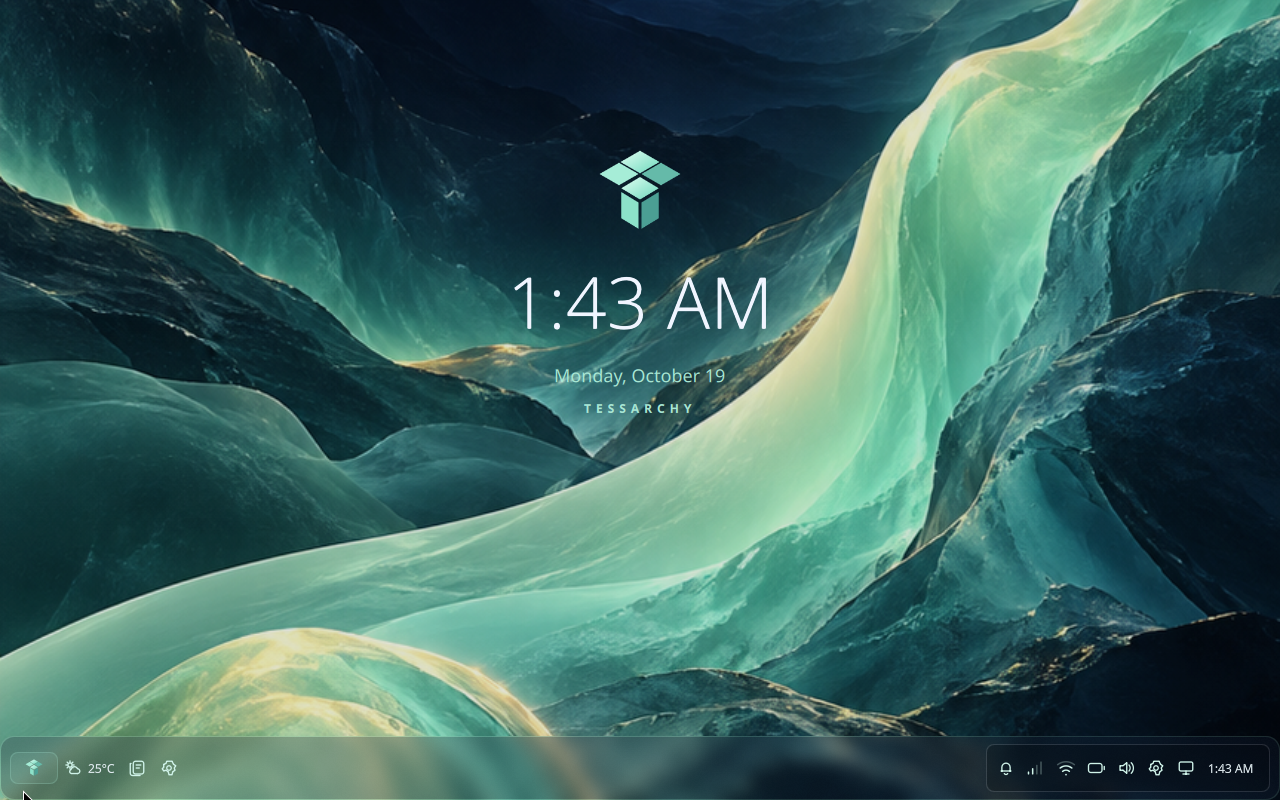
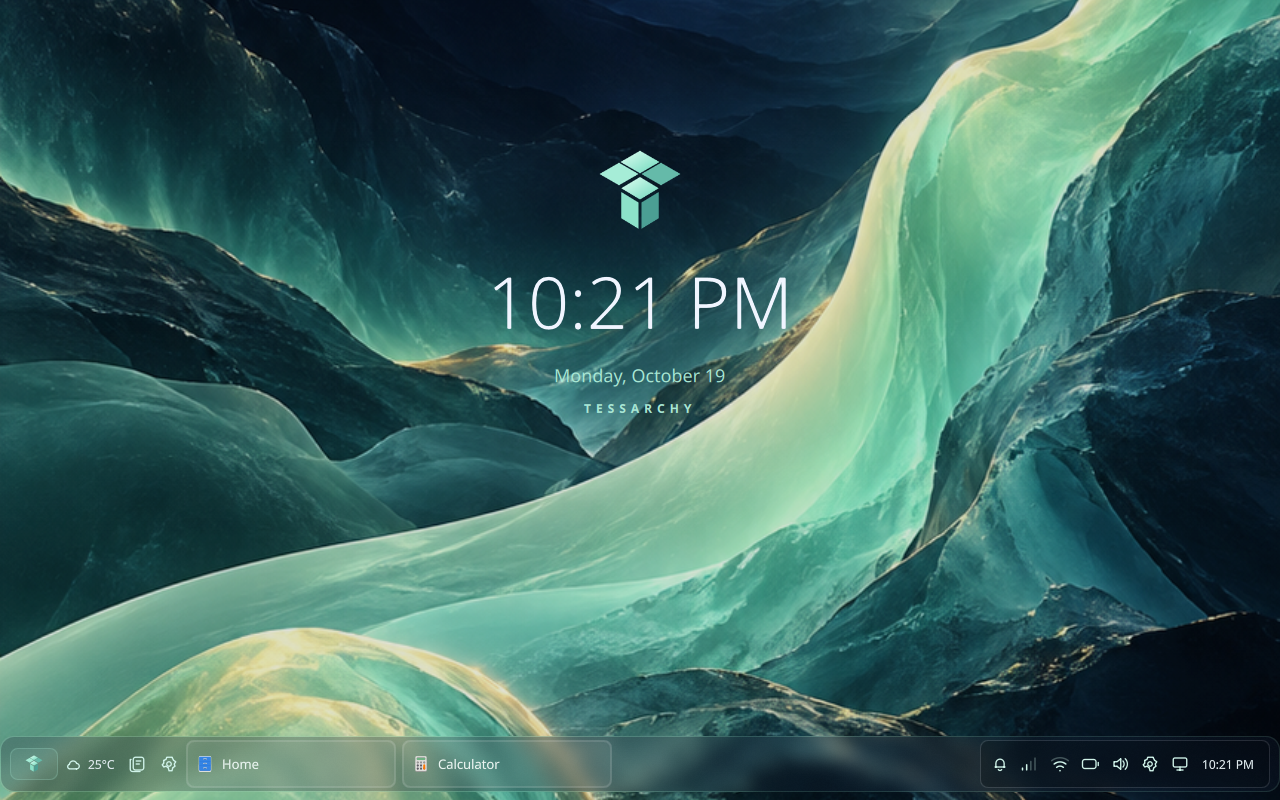
Refresh all showcase captures and publish the integrated phone experience

diff --git a/website/index.html b/website/index.html
@@ -5,9 +5,9 @@
 <meta name="theme-color" content="#09151e"><meta name="description" content="Tessarchy is an experimental touch-first Arch Linux experience. Meet Quiet Edge, the Tessera shell, and a workspace that adapts to your screen.">
 <title>Tessarchy — A quieter kind of Linux.</title>
 <link rel="canonical" href="https://thediamondsaint.github.io/tessarchy/">
-<meta property="og:type" content="website"><meta property="og:site_name" content="Tessarchy"><meta property="og:title" content="Tessarchy · From prototype to device"><meta property="og:description" content="Explore Quiet Edge: glass navigation, a mobile PIN login, real VM screenshots, a tester ISO, and the roadmap to a working handheld."><meta property="og:url" content="https://thediamondsaint.github.io/tessarchy/"><meta property="og:image" content="https://thediamondsaint.github.io/tessarchy/assets/desktop-home.png?v=20261018-tablet"><meta property="og:image:width" content="1280"><meta property="og:image:height" content="800"><meta property="og:image:alt" content="Actual Tessarchy development VM running the Quiet Edge desktop layout">
-<meta name="twitter:card" content="summary_large_image"><meta name="twitter:title" content="Tessarchy · From prototype to device"><meta name="twitter:description" content="A touch-first Arch Linux prototype. Real screenshots, a tester ISO, and a milestone roadmap to a handheld device."><meta name="twitter:image" content="https://thediamondsaint.github.io/tessarchy/assets/desktop-home.png?v=20261018-tablet">
-<link rel="icon" href="assets/tessarchy-mark.svg" type="image/svg+xml"><link rel="stylesheet" href="style.css"><script src="app.js?v=20261019-audit" defer></script>
+<meta property="og:type" content="website"><meta property="og:site_name" content="Tessarchy"><meta property="og:title" content="Tessarchy · From prototype to device"><meta property="og:description" content="Explore Quiet Edge: glass navigation, a mobile PIN login, real VM screenshots, a tester ISO, and the roadmap to a working handheld."><meta property="og:url" content="https://thediamondsaint.github.io/tessarchy/"><meta property="og:image" content="https://thediamondsaint.github.io/tessarchy/assets/desktop-home.png?v=20261019-refresh"><meta property="og:image:width" content="1280"><meta property="og:image:height" content="800"><meta property="og:image:alt" content="Actual Tessarchy development VM running the Quiet Edge desktop layout">
+<meta name="twitter:card" content="summary_large_image"><meta name="twitter:title" content="Tessarchy · From prototype to device"><meta name="twitter:description" content="A touch-first Arch Linux prototype. Real screenshots, a tester ISO, and a milestone roadmap to a handheld device."><meta name="twitter:image" content="https://thediamondsaint.github.io/tessarchy/assets/desktop-home.png?v=20261019-refresh">
+<link rel="icon" href="assets/tessarchy-mark.svg" type="image/svg+xml"><link rel="stylesheet" href="style.css"><script src="app.js?v=20261019-refresh" defer></script>
 </head>
 <body>
 <a class="skip" href="#main">Skip to content</a>
@@ -15,29 +15,29 @@
 <main id="main">
 <section class="hero">
 <div class="hero-copy"><p class="eyebrow"><span class="pulse"></span> INDEPENDENT. OPEN SOURCE. TAKING SHAPE.</p><h1>A quieter<br>kind of <em>Linux.</em></h1><p class="lead">Your space, from pocket to desktop.<br>A touch-first Arch experience, shaped around you.</p><div class="actions"><a class="button primary" href="#experience">Meet Quiet Edge <span>↓</span></a><a class="text-link" href="#download">Get the tester ISO ↗</a></div><p class="hero-note">Arch Linux <span> / </span> Hyprland <span> / </span> Tessera</p></div>
-<div class="hero-art"><div class="orbit orbit-one"></div><div class="orbit orbit-two"></div><div class="phone"><img src="assets/phone-home.png?v=20261018-tablet" alt="Real Tessarchy VM screenshot showing the Quiet Edge home screen" width="400" height="800" fetchpriority="high"></div><div class="glass-tag"><img src="assets/tessarchy-mark.svg" alt="" width="28" height="28"><div>Quiet Edge<span>A little less noise. A lot more space.</span></div></div><span class="art-caption">ACTUAL DEVELOPMENT VM · PHONE LAYOUT</span></div>
+<div class="hero-art"><div class="orbit orbit-one"></div><div class="orbit orbit-two"></div><div class="phone"><img src="assets/phone-home.png?v=20261019-refresh" alt="Real Tessarchy VM screenshot showing the Quiet Edge home screen" width="390" height="844" fetchpriority="high"></div><div class="glass-tag"><img src="assets/tessarchy-mark.svg" alt="" width="28" height="28"><div>Quiet Edge<span>A little less noise. A lot more space.</span></div></div><span class="art-caption">ACTUAL DEVELOPMENT VM · PHONE LAYOUT</span></div>
 </section>
 <div class="section-rule"><span>01 / THE EXPERIENCE</span><span>DESIGNED TO GET OUT OF YOUR WAY</span></div>
 <section id="experience" class="experience">
 <div class="section-intro"><h2>Room to breathe.<br><em>Space to move.</em></h2><p>Shallow glass. Precise icons. A floating dock that keeps navigation close. Quiet Edge brings a consistent, considered shape to the Tessera shell.</p></div>
-<div class="feature-grid"><article class="switcher-feature"><div class="feature-copy"><p class="eyebrow">IN THE DEVELOPMENT BUILD</p><h3>Find your flow.</h3><p>Swipe through app cards with real window previews. Tap to return. Alt+Tab opens a compact row of app icons for keyboard switching.</p><div class="key-row"><kbd>Alt</kbd><span>+</span><kbd>Tab</kbd><span>Quick keyboard switching.</span></div></div><button class="shot-button switcher-shot" data-image="assets/phone-switcher.png?v=20261018-tablet" aria-label="Enlarge app switcher screenshot"><img src="assets/phone-switcher.png?v=20261018-tablet" alt="Tessera glass card app switcher in the development VM" width="400" height="800" loading="lazy"></button></article><article class="settings-feature"><p class="eyebrow">MAKE IT YOURS</p><h3>Small details.<br>Your decisions.</h3><p>Choose a layout, adjust the glass, change your accent, or reduce motion. Settings stay with your session.</p><button class="shot-button settings-shot" data-image="assets/phone-settings.png?v=20261018-tablet" aria-label="Enlarge settings screenshot"><img src="assets/phone-settings.png?v=20261018-tablet" alt="Tessarchy settings with automatic, phone, tablet and desktop layouts" width="400" height="800" loading="lazy"></button></article><article class="controls-feature"><div class="feature-copy"><p class="eyebrow">PULL DOWN. TUNE IN.</p><h3>A few essentials.<br>Always within reach.</h3><p>Pull down the central status-bar handle for glass radio switches, volume, and layout controls. The close handle stays within reach while you scroll. Choose Auto, Phone, Tablet, or Desktop without leaving the panel. Airplane mode controls detected radios together; Wi-Fi, Bluetooth and cellular have their own switches.</p><p>Unavailable hardware and permission limits stay visible. Development source now includes Bluetooth adapter discovery and connections to already-paired devices. Wi-Fi network selection remains planned; physical radio acceptance is still pending.</p></div><button class="shot-button controls-shot" data-image="assets/phone-controls.png?v=20261018-tablet" aria-label="Enlarge quick controls screenshot"><img src="assets/phone-controls.png?v=20261018-tablet" alt="Actual VM pull-down quick controls with layout selection and unavailable radio hardware" width="400" height="800" loading="lazy"></button></article></div>
+<div class="feature-grid"><article class="switcher-feature"><div class="feature-copy"><p class="eyebrow">IN THE DEVELOPMENT BUILD</p><h3>Find your flow.</h3><p>Swipe through overlapping app cards with real window previews, app icons and names. Tap to return; swipe up or double-click with a mouse to close immediately. Alt+Tab opens a compact row of app icons for keyboard switching.</p><div class="key-row"><kbd>Alt</kbd><span>+</span><kbd>Tab</kbd><span>Quick keyboard switching.</span></div></div><button class="shot-button switcher-shot" data-image="assets/phone-switcher.png?v=20261019-refresh" aria-label="Enlarge app switcher screenshot"><img src="assets/phone-switcher.png?v=20261019-refresh" alt="Tessera glass card app switcher in the development VM" width="390" height="844" loading="lazy"></button></article><article class="settings-feature"><p class="eyebrow">MAKE IT YOURS</p><h3>Small details.<br>Your decisions.</h3><p>Choose a layout, adjust the glass, change your accent, or reduce motion. Settings stay with your session.</p><button class="shot-button settings-shot" data-image="assets/phone-settings.png?v=20261019-refresh" aria-label="Enlarge settings screenshot"><img src="assets/phone-settings.png?v=20261019-refresh" alt="Tessarchy settings with automatic, phone, tablet and desktop layouts" width="390" height="844" loading="lazy"></button></article><article class="controls-feature"><div class="feature-copy"><p class="eyebrow">PULL DOWN. TUNE IN.</p><h3>A few essentials.<br>Always within reach.</h3><p>Pull down the central status-bar handle for glass radio switches, volume, and layout controls. The close handle stays within reach while you scroll. Choose Auto, Phone, Tablet, or Desktop without leaving the panel. Airplane mode controls detected radios together; Wi-Fi, Bluetooth and cellular have their own switches.</p><p>Unavailable hardware and permission limits stay visible. Development source now includes Bluetooth adapter discovery and connections to already-paired devices. Wi-Fi network selection remains planned; physical radio acceptance is still pending.</p></div><button class="shot-button controls-shot" data-image="assets/phone-controls.png?v=20261019-refresh" aria-label="Enlarge quick controls screenshot"><img src="assets/phone-controls.png?v=20261019-refresh" alt="Actual VM pull-down quick controls with layout selection and unavailable radio hardware" width="390" height="844" loading="lazy"></button></article></div>
 </section>
-<section class="adaptive"><div class="section-intro"><div><p class="eyebrow">ONE SHELL. EVERY SCREEN.</p><h2>Grows with<br><em>your workspace.</em></h2></div><p>Tessera detects the logical display size and chooses a phone, tablet, or desktop layout. Keep it automatic, or choose your own mode.</p></div><div class="mode-tabs" role="tablist" aria-label="Display layouts"><button role="tab" aria-selected="true" aria-controls="layout-preview" id="tab-phone" data-mode="phone" tabindex="0">Phone</button><button role="tab" aria-selected="false" aria-controls="layout-preview" id="tab-tablet" data-mode="tablet" tabindex="-1">Tablet</button><button role="tab" aria-selected="false" aria-controls="layout-preview" id="tab-desktop" data-mode="desktop" tabindex="-1">Desktop</button></div><div id="layout-preview" role="tabpanel" aria-labelledby="tab-phone" class="layout-preview phone-mode"><button class="shot-button" data-image="assets/phone-home.png?v=20261018-tablet" aria-label="Enlarge layout screenshot"><img id="layout-image" src="assets/phone-home.png?v=20261018-tablet" alt="Phone layout in the Tessarchy development VM" width="400" height="800" loading="lazy"></button><div class="layout-caption"><span id="layout-label">PHONE / 400 × 800</span><span>REAL VM CAPTURE · DEVELOPMENT BUILD</span></div><button id="layout-controls-shot" class="button" data-image="assets/phone-controls.png?v=20261018-tablet" data-alt="Phone pull-down controls in the development VM">View quick controls ↗</button></div></section>
+<section class="adaptive"><div class="section-intro"><div><p class="eyebrow">ONE SHELL. EVERY SCREEN.</p><h2>Grows with<br><em>your workspace.</em></h2></div><p>Tessera detects the logical display size and chooses a phone, tablet, or desktop layout. Keep it automatic, or choose your own mode.</p></div><div class="mode-tabs" role="tablist" aria-label="Display layouts"><button role="tab" aria-selected="true" aria-controls="layout-preview" id="tab-phone" data-mode="phone" tabindex="0">Phone</button><button role="tab" aria-selected="false" aria-controls="layout-preview" id="tab-tablet" data-mode="tablet" tabindex="-1">Tablet</button><button role="tab" aria-selected="false" aria-controls="layout-preview" id="tab-desktop" data-mode="desktop" tabindex="-1">Desktop</button></div><div id="layout-preview" role="tabpanel" aria-labelledby="tab-phone" class="layout-preview phone-mode"><button class="shot-button" data-image="assets/phone-home.png?v=20261019-refresh" aria-label="Enlarge layout screenshot"><img id="layout-image" src="assets/phone-home.png?v=20261019-refresh" alt="Phone layout in the Tessarchy development VM" width="390" height="844" loading="lazy"></button><div class="layout-caption"><span id="layout-label">PHONE / 390 × 844</span><span>REAL VM CAPTURE · DEVELOPMENT BUILD</span></div><button id="layout-controls-shot" class="button" data-image="assets/phone-controls.png?v=20261019-refresh" data-alt="Phone pull-down controls in the development VM">View quick controls ↗</button></div></section>
 <div class="section-rule"><span>02 / OUT IN THE OPEN</span><span>PROGRESS, WITHOUT THE GUESSWORK</span></div>
-<section id="development" class="development"><div class="section-intro"><h2>Built in public.<br><em>Still becoming.</em></h2><p>Tessarchy is an early prototype. Here is what exists today, what you can test, and where we are headed.</p></div><div class="status-columns"><article><span class="status-label available">DEVELOPMENT BUILD</span><h3>The foundation is here.</h3><ul><li>Quiet Edge glass bars and floating navigation</li><li>Pull-down radio switches and airplane mode</li><li>Touch Recents cards and an icon-only Alt+Tab switcher</li><li>Automatic layouts and saved preferences</li><li>Animated cube branding and reduced motion</li><li>Confirmed window close and session exit</li><li>Phone PIN login verified through greetd/PAM in the VM</li><li>Phone, contacts/photos and SMS dock apps</li><li>VoidRing sound selection and SIM/eSIM options</li><li>Bluetooth discovery and already-paired device actions</li><li>Guarded media, audio-device and screenshot controls</li><li>VM-tested touchscreen gestures and audio output switching</li><li>Battery and supported power-profile controls</li></ul></article><article><span class="status-label testing">TESTER RELEASE</span><h3>A place to start.</h3><p>Alpha 4 keeps the Alpha 3 curated app picker, everyday apps, tablet firmware, audio, wireless tools and startup animation, and adds the desktop tray fix, on-screen keys at a 48px height, idle blanking, a notification center and display rotation. It has been observed booting into Tessera in BIOS and non-Secure-Boot UEFI QEMU/KVM.</p><p>A live x86_64 environment, with no disk installer or persistent storage. An on-screen keyboard is included; keep a physical keyboard for recovery.</p></article><article><span class="status-label planned">ON THE HORIZON</span><h3>The next edges.</h3><ul><li>Customizable navigation gestures</li><li>Further on-screen keyboard and application integration</li><li>Touch-friendly default applications</li><li>Reference hardware selection and architecture bring-up</li><li>Calling, messaging and modem research</li></ul><p class="muted">Phone hardware, cellular service and WebUSB flashing are investigation work.</p></article></div><div class="project-links"><a href="https://github.com/thediamondsaint/tessarchy/blob/main/AGENT-README.md">Agent task board ↗</a><a href="https://github.com/thediamondsaint/tessarchy/blob/main/docs/testing.md">Read the validation record ↗</a><a href="https://github.com/thediamondsaint/tessarchy/blob/main/Operation-TESSARCHY.md">Explore Operation Tessarchy ↗</a><a href="https://github.com/thediamondsaint/tessarchy/issues">Report a finding ↗</a></div><div class="update-row"><span><i class="pulse"></i> REPOSITORY UPDATE</span><a id="commit-link" href="https://github.com/thediamondsaint/tessarchy/commits/main"><span id="commit-message">See the latest development activity</span> ↗</a></div></section>
+<section id="development" class="development"><div class="section-intro"><h2>Built in public.<br><em>Still becoming.</em></h2><p>Tessarchy is an early prototype. Here is what exists today, what you can test, and where we are headed.</p></div><div class="status-columns"><article><span class="status-label available">DEVELOPMENT BUILD</span><h3>The foundation is here.</h3><ul><li>Quiet Edge glass bars and floating navigation</li><li>Pull-down radio switches and airplane mode</li><li>Stacked phone Recents and an icon-only Alt+Tab switcher</li><li>Automatic layouts and saved preferences</li><li>Animated cube branding and reduced motion</li><li>Immediate Recents dismissal; confirmed session exit</li><li>Phone PIN login verified through greetd/PAM in the VM</li><li>Phone, contacts/photos and SMS dock apps</li><li>VoidRing sound selection and SIM/eSIM options</li><li>Bluetooth discovery and already-paired device actions</li><li>Guarded media, audio-device and screenshot controls</li><li>VM-tested touchscreen gestures and audio output switching</li><li>Development installer and in-place update tooling; installed-disk acceptance pending</li><li>Battery and supported power-profile controls</li></ul></article><article><span class="status-label testing">TESTER RELEASE</span><h3>A place to start.</h3><p>Alpha 4 keeps the Alpha 3 curated app picker, everyday apps, tablet firmware, audio, wireless tools and startup animation, and adds the desktop tray fix, on-screen keys at a 48px height, idle blanking, a notification center and display rotation. It has been observed booting into Tessera in BIOS and non-Secure-Boot UEFI QEMU/KVM.</p><p>A live x86_64 environment, with no disk installer or persistent storage. An on-screen keyboard is included; keep a physical keyboard for recovery.</p></article><article><span class="status-label planned">ON THE HORIZON</span><h3>The next edges.</h3><ul><li>Customizable navigation gestures</li><li>Further on-screen keyboard and application integration</li><li>Touch-friendly default applications</li><li>Reference hardware selection and architecture bring-up</li><li>Calling, messaging and modem research</li></ul><p class="muted">Phone hardware, cellular service and WebUSB flashing are investigation work.</p></article></div><div class="project-links"><a href="https://github.com/thediamondsaint/tessarchy/blob/main/AGENT-README.md">Agent task board ↗</a><a href="https://github.com/thediamondsaint/tessarchy/blob/main/docs/testing.md">Read the validation record ↗</a><a href="https://github.com/thediamondsaint/tessarchy/blob/main/Operation-TESSARCHY.md">Explore Operation Tessarchy ↗</a><a href="https://github.com/thediamondsaint/tessarchy/issues">Report a finding ↗</a></div><div class="update-row"><span><i class="pulse"></i> REPOSITORY UPDATE</span><a id="commit-link" href="https://github.com/thediamondsaint/tessarchy/commits/main"><span id="commit-message">See the latest development activity</span> ↗</a></div></section>
 <section id="latest" class="latest">
-<div class="section-intro"><div><p class="eyebrow">LATEST DEVELOPMENT · OCTOBER 2026</p><h2>More than<br><em>a new look.</em></h2></div><p>Refined touch controls, working VM audio, a real phone-style sign-in, and a clearer path to hardware. Alpha 4 brings the tablet profile, supplied startup animation and the latest shell fixes to the live image, with a separate package bundle for existing Arch tablets.</p></div>
+<div class="section-intro"><div><p class="eyebrow">LATEST DEVELOPMENT · OCTOBER 2026</p><h2>More than<br><em>a new look.</em></h2></div><p>Fresh screenshots across phone, tablet and desktop, stacked phone Recents with immediate dismissal, tested VM audio, and a real phone-style sign-in. Alpha 4 brings the tablet profile, supplied startup animation and the latest shell fixes to the live image, with a separate package bundle for existing Arch tablets.</p></div>
 <div class="evidence-grid">
-<article><button class="shot-button" data-image="assets/phone-contacts.png?v=20261018-tablet" aria-label="Enlarge the Phone contacts app"><img src="assets/phone-contacts.png?v=20261018-tablet" alt="Actual Phone contacts page with a synthetic demo contact and imported Tessarchy-logo photo" width="400" height="800" loading="lazy"></button><h3>Your people, close.</h3><p>Phone and Messages join the glass dock. A native keypad, call controls, searchable contacts and private photos share the Quiet Edge theme.</p><a class="text-link" href="assets/phone-dialer.png?v=20261018-tablet">View the dialer ↗</a></article>
-<article><button class="shot-button" data-image="assets/desktop-messages.png?v=20261018-tablet" aria-label="Enlarge desktop Messages"><img src="assets/desktop-messages.png?v=20261018-tablet" alt="Actual desktop Messages layout with two columns and an empty composer; cellular service is unavailable in this VM" width="1280" height="800" loading="lazy"></button><h3>A little more connected.</h3><p>SMS conversations adapt from one column on phones to two on desktop. ModemManager supplies the cellular backend, SIM detection and supported device controls. Hardware acceptance is the next step.</p><a class="text-link" href="assets/phone-messages.png?v=20261018-tablet">View phone Messages ↗</a></article>
-<article><button class="shot-button" data-image="assets/phone-sounds.png?v=20261018-tablet" aria-label="Enlarge ringtone settings"><img src="assets/phone-sounds.png?v=20261018-tablet" alt="Actual glass sound settings with the supplied VoidRing tones, preview controls and MP3 import" width="400" height="800" loading="lazy"></button><h3>Make it sound like you.</h3><p>Five VoidRing tracks, saved ringtone and alert choices, previews and a glass file browser. SIM and eSIM settings sit beside the connection controls.</p><a class="text-link" href="assets/phone-cellular.png?v=20261018-tablet">View SIM &amp; eSIM options ↗</a></article>
+<article><button class="shot-button" data-image="assets/phone-contacts.png?v=20261019-refresh" aria-label="Enlarge the Phone contacts app"><img src="assets/phone-contacts.png?v=20261019-refresh" alt="Actual Phone contacts page with a synthetic demo contact and imported Tessarchy-logo photo" width="390" height="844" loading="lazy"></button><h3>Your people, close.</h3><p>Phone and Messages join the glass dock. A native keypad, call controls, searchable contacts and private photos share the Quiet Edge theme.</p><a class="text-link" href="assets/phone-dialer.png?v=20261019-refresh">View the dialer ↗</a></article>
+<article><button class="shot-button" data-image="assets/desktop-messages.png?v=20261019-refresh" aria-label="Enlarge desktop Messages"><img src="assets/desktop-messages.png?v=20261019-refresh" alt="Actual desktop Messages layout with two columns and an empty composer; cellular service is unavailable in this VM" width="1280" height="800" loading="lazy"></button><h3>A little more connected.</h3><p>SMS conversations adapt from one column on phones to two on desktop. ModemManager supplies the cellular backend, SIM detection and supported device controls. Hardware acceptance is the next step.</p><a class="text-link" href="assets/phone-messages.png?v=20261019-refresh">View phone Messages ↗</a></article>
+<article><button class="shot-button" data-image="assets/phone-sounds.png?v=20261019-refresh" aria-label="Enlarge ringtone settings"><img src="assets/phone-sounds.png?v=20261019-refresh" alt="Actual glass sound settings with the supplied VoidRing tones, preview controls and MP3 import" width="390" height="844" loading="lazy"></button><h3>Make it sound like you.</h3><p>Five VoidRing tracks, saved ringtone and alert choices, previews and a glass file browser. SIM and eSIM settings sit beside the connection controls.</p><a class="text-link" href="assets/phone-cellular.png?v=20261019-refresh">View SIM &amp; eSIM options ↗</a></article>
 
-<article><button class="shot-button" data-image="assets/live-launcher.png?v=20261018-tablet" aria-label="Enlarge the live tablet-pilot app picker"><img src="assets/live-launcher.png?v=20261018-tablet" alt="Actual Alpha 4 UEFI live boot showing the curated main-app picker" width="1280" height="800" loading="lazy"></button><span class="status-label testing">INTEL / AMD TABLET PILOT</span><h3>Beyond the VM.</h3><p>A new tablet package profile adds firmware, Wi-Fi and Bluetooth tools, audio, the on-screen keyboard, Files, Text Editor, document and image viewers, media playback and Calculator.</p><p>The app picker now keeps one primary app per role and leaves background helpers out. Install onto an existing Arch system using the tablet guide; storage setup and physical-device acceptance stay explicit.</p><a class="text-link" href="https://github.com/thediamondsaint/tessarchy/blob/main/docs/tablet-install.md">Tablet install and acceptance guide ↗</a></article>
-<article><button class="shot-button" data-image="assets/desktop-audio.png?v=20261018-tablet" aria-label="Enlarge tested VM audio controls"><img src="assets/desktop-audio.png?v=20261018-tablet" alt="Actual software-display VM with two detected audio outputs and the fixed quick-controls close handle" width="1280" height="800" loading="lazy"></button><h3>Touch. Tune. Test.</h3><p>A dedicated pull-down handle, grouped dock shortcuts and a close handle that stays visible. Real virtual-touch gestures exercise scrolling, audio output selection, mute and volume.</p><p>The accepted VM profile keeps software display rendering and KVM CPU acceleration, with sound and multitouch enabled. Less idle polling reduces background work when hardware is absent.</p><a class="text-link" href="https://github.com/thediamondsaint/tessarchy/blob/main/docs/vm.md">Set up the development VM ↗</a></article>
+<article><button class="shot-button" data-image="assets/live-launcher.png?v=20261019-refresh" aria-label="Enlarge the live tablet-pilot app picker"><img src="assets/live-launcher.png?v=20261019-refresh" alt="Fresh UEFI boot of the Alpha 15 mirror development ISO showing the curated main-app picker" width="1280" height="800" loading="lazy"></button><span class="status-label testing">INTEL / AMD TABLET PILOT</span><h3>Beyond the VM.</h3><p>This capture shows an Alpha 15 mirror development ISO, separate from the published Alpha 4 download. The tablet package profile adds firmware, Wi-Fi and Bluetooth tools, audio, the on-screen keyboard, Files, Text Editor, document and image viewers, media playback and Calculator.</p><p>The app picker now keeps one primary app per role and leaves background helpers out. Install onto an existing Arch system using the tablet guide; storage setup and physical-device acceptance stay explicit.</p><a class="text-link" href="https://github.com/thediamondsaint/tessarchy/blob/main/docs/tablet-install.md">Tablet install and acceptance guide ↗</a></article>
+<article><button class="shot-button" data-image="assets/desktop-audio.png?v=20261019-refresh" aria-label="Enlarge tested VM audio controls"><img src="assets/desktop-audio.png?v=20261019-refresh" alt="Actual software-display VM with two detected audio outputs and the fixed quick-controls close handle" width="1280" height="800" loading="lazy"></button><h3>Touch. Tune. Test.</h3><p>A dedicated pull-down handle, grouped dock shortcuts and a close handle that stays visible. Real virtual-touch gestures exercise scrolling, audio output selection, mute and volume.</p><p>The accepted VM profile keeps software display rendering and KVM CPU acceleration, with sound and multitouch enabled. Less idle polling reduces background work when hardware is absent.</p><a class="text-link" href="https://github.com/thediamondsaint/tessarchy/blob/main/docs/vm.md">Set up the development VM ↗</a></article>
 <article><video controls muted playsinline preload="metadata" poster="assets/power-on-poster.png" width="480" height="480" aria-label="Supplied eight-second Tessarchy power-on animation"><source src="assets/power-on.mp4" type="video/mp4"></video><h3>A new power-on sequence.</h3><p>The supplied eight-second animation now drives the Plymouth theme. The package plays it once, keeps its square composition on phone and tablet displays, then holds the final frame until startup finishes.</p><p>The video was observed in diskless BIOS and UEFI live boots. Physical-tablet acceptance is recorded separately.</p><a class="text-link" href="assets/power-on.mp4" download>Download the animation MP4 ↓</a><br><a class="text-link" href="assets/tablet-startup.png">View the actual UEFI startup frame ↗</a></article>
-<article><button class="shot-button" data-image="assets/phone-login.png" aria-label="Enlarge real phone login screenshot"><img src="assets/phone-login.png" alt="Actual greetd phone login in the VM, with a glass numeric keypad and four empty PIN dots" width="400" height="800" loading="lazy"></button><h3>A familiar way in.</h3><p>Four-digit account-password sign-in through greetd and PAM. Wrong-PIN rejection, successful sign-in, and return to the greeter were tested in the development VM. The greeter authenticates a new session.</p><a class="text-link" href="https://github.com/thediamondsaint/tessarchy/blob/main/docs/phone-login.md">Read the login validation ↗</a></article>
-<article><button class="shot-button" data-image="assets/phone-bluetooth.png?v=20261018-tablet" aria-label="Enlarge Bluetooth controls screenshot"><img src="assets/phone-bluetooth.png?v=20261018-tablet" alt="Actual development VM Bluetooth panel reporting that no adapter is available" width="400" height="800" loading="lazy"></button><h3>Connected, with care.</h3><p>Bluetooth controls handle missing adapters. The VM now has two audio outputs, with real signal capture, touch output selection, mute and volume checks completed. Media playback and private screenshots remain separate acceptance work.</p><a class="text-link" href="https://github.com/thediamondsaint/tessarchy/blob/main/docs/pr-triage.md">See the contributor integration record ↗</a></article>
-<article><button class="shot-button" data-image="assets/phone-login-home.png" aria-label="Enlarge authenticated home screenshot"><img src="assets/phone-login-home.png" alt="Tessera home after a successful real PAM login in the development VM" width="400" height="800" loading="lazy"></button><h3>Back to your space.</h3><p>The greeter and desktop now start through the supported Hyprland launcher. The tested user session reports no configuration errors or launcher warnings. Physical device support remains a separate milestone.</p><a class="text-link" href="https://github.com/thediamondsaint/tessarchy/pull/25">View the merged login work ↗</a></article>
+<article><button class="shot-button" data-image="assets/phone-login.png?v=20261019-refresh" aria-label="Enlarge real phone login screenshot"><img src="assets/phone-login.png?v=20261019-refresh" alt="Actual greetd phone login in the VM, with a glass numeric keypad and four empty PIN dots" width="390" height="844" loading="lazy"></button><h3>A familiar way in.</h3><p>Four-digit account-password sign-in through greetd and PAM. Wrong-PIN rejection, successful sign-in, and return to the greeter were tested in the development VM. The greeter authenticates a new session.</p><a class="text-link" href="https://github.com/thediamondsaint/tessarchy/blob/main/docs/phone-login.md">Read the login validation ↗</a></article>
+<article><button class="shot-button" data-image="assets/phone-bluetooth.png?v=20261019-refresh" aria-label="Enlarge Bluetooth controls screenshot"><img src="assets/phone-bluetooth.png?v=20261019-refresh" alt="Actual development VM Bluetooth panel reporting that no adapter is available" width="390" height="844" loading="lazy"></button><h3>Connected, with care.</h3><p>Bluetooth controls handle missing adapters. The VM now has two audio outputs, with real signal capture, touch output selection, mute and volume checks completed. Media playback and private screenshots remain separate acceptance work.</p><a class="text-link" href="https://github.com/thediamondsaint/tessarchy/blob/main/docs/pr-triage.md">See the contributor integration record ↗</a></article>
+<article><button class="shot-button" data-image="assets/phone-login-home.png?v=20261019-refresh" aria-label="Enlarge authenticated home screenshot"><img src="assets/phone-login-home.png?v=20261019-refresh" alt="Tessera home after a successful real PAM login in the development VM" width="390" height="844" loading="lazy"></button><h3>Back to your space.</h3><p>The greeter and desktop now start through the supported Hyprland launcher. The tested user session reports no configuration errors or launcher warnings. Physical device support remains a separate milestone.</p><a class="text-link" href="https://github.com/thediamondsaint/tessarchy/pull/25">View the merged login work ↗</a></article>
 </div>
 <p class="evidence-note">Actual VM captures, not hardware mockups. Expand an image to inspect or download it. The screenshot pack includes {{SCREENSHOT_COUNT}} published captures.</p>
 </section>

diff --git a/website/app.js b/website/app.js
@@ -1,7 +1,7 @@
 const modes = {
-  phone: {image: 'phone-home.png?v=20261018-touch', controls: 'phone-controls.png?v=20261018-touch', label: 'PHONE / 400 × 800', width: 400, height: 800},
-  tablet: {image: 'tablet-home.png?v=20261018-clean', controls: 'tablet-controls.png?v=20261018-touch', label: 'TABLET / 800 × 1280', width: 800, height: 1280},
-  desktop: {image: 'desktop-home.png?v=20261018-touch', controls: 'desktop-controls.png?v=20261018-touch', label: 'DESKTOP / 1280 × 800', width: 1280, height: 800}
+  phone: {image: 'phone-home.png?v=20261019-refresh', controls: 'phone-controls.png?v=20261019-refresh', label: 'PHONE / 390 × 844', width: 390, height: 844},
+  tablet: {image: 'tablet-home.png?v=20261019-refresh', controls: 'tablet-controls.png?v=20261019-refresh', label: 'TABLET / 800 × 1280', width: 800, height: 1280},
+  desktop: {image: 'desktop-home.png?v=20261019-refresh', controls: 'desktop-controls.png?v=20261019-refresh', label: 'DESKTOP / 1280 × 800', width: 1280, height: 800}
 };
 const tabs = [...document.querySelectorAll('[data-mode]')];
 function selectMode(tab) {

diff --git a/scripts/boot-test-iso.py b/scripts/boot-test-iso.py
@@ -122,7 +122,7 @@ def main():
                     columns = count if capacity >= count else min(3, capacity)
                     button = (dock - padding * 2 - (columns - 1) * 4) / columns
                     column = (count - 2) % columns
-                    x = width / 2 - dock / 2 + padding + column * (button + 4) + button / 2
+                    x = 34 if desktop else width / 2 - dock / 2 + padding + column * (button + 4) + button / 2
                     events = [{'type': 'abs', 'data': {'axis': 'x', 'value': round(x * 32767 / width)}},
                               {'type': 'abs', 'data': {'axis': 'y', 'value': round((height - 42) * 32767 / height)}},
                               {'type': 'btn', 'data': {'button': 'left', 'down': True}}]

diff --git a/assets/screenshots/README.md b/assets/screenshots/README.md
@@ -1,31 +1,25 @@
 # Quiet Edge development captures
 
-Actual QEMU/KVM development-VM screenshots. The 2026-10-18 VM/touch checkpoint
-uses the owner-accepted software display profile, with KVM CPU acceleration,
-two audio outputs and virtio multitouch. The current captures use guest grim.
-Dimensions, exact source commit and SHA-256 hashes are in capture-manifest.json.
+Fresh 2026-10-19 screenshots from actual QEMU/KVM guests. The development guest
+uses software display rendering, KVM CPU acceleration, two audio outputs and
+virtio multitouch. Captures use guest grim; the live-image capture uses QMP.
+Dimensions, source commits and SHA-256 hashes are in capture-manifest.json.
 
-Current captures:
+- Phone home, launcher, stacked Recents, settings, contacts, dialer, messages,
+  sounds, cellular settings, Bluetooth and controls: 390x844, automatic Phone.
+- Real greetd/PAM entry, wrong-PIN rejection and authenticated home: 390x844.
+- Tablet home and controls: 800x1280, automatic Tablet.
+- Desktop home, controls, audio outputs and Messages: 1280x800, automatic Desktop.
 
-- Phone home, launcher, switcher, settings, contacts, dialer, messages, sounds,
-  cellular settings, Bluetooth and pull-down controls: 400x800.
-- Tablet home and controls: 800x1280, automatic Tablet selection.
-- Desktop home, controls, audio outputs and two-column Messages: 1280x800,
-  automatic Desktop selection.
+The contact is synthetic: Tessarchy Demo, reserved 202-555-0123, with the official
+logo as its photo. Recents shows real Calculator, Files and Foot windows with
+synthetic terminal text. No calls or SMS were sent. Audio controls show detected
+USB and HDA outputs; absent radio, modem and battery hardware remains visible.
+The Messages composer is empty. Recents apps close immediately by upward swipe,
+mouse double-click or the close button.
 
-The example contact is synthetic: Tessarchy Demo, reserved 202-555-0123 number,
-with the official logo as its imported photo. The switcher contains a real Foot
-window with a synthetic touch-test note. No real calls or SMS were sent. Audio
-controls show actual detected outputs; cellular, radio and battery controls show
-the guest's unavailable hardware. The Messages composer is empty.
-
-The three PIN-login captures retain their earlier greetd/PAM validation context:
-entry, rejection and authenticated home. Earlier preview-labelled login PNGs are
-separate assets and are not included in the website's screenshot ZIP.
-
-The website ZIP contains twenty-one captures. These development captures are separate
-from the published Alpha 2 ISO and its boot evidence.
-
-`live-launcher.png` is the curated picker from the diskless Alpha 3 UEFI boot
-on CI (1280x800, source566a438). The earlier development-VM captures retain
-their original source checkpoints; that VM was not changed for the tablet pilot.
+The screenshot ZIP contains twenty-one fresh captures. `live-launcher.png`
+comes from a diskless UEFI boot of the Alpha 15 mirror development ISO, source
+1a46da4. It is separate from the published Alpha 4 tester download and the newer
+phone-session source. Earlier preview-labelled login PNGs are historical assets
+outside the website screenshot ZIP. No images are visual mockups.

diff --git a/docs/testing.md b/docs/testing.md
@@ -1942,3 +1942,34 @@ separate branch. Physical scanning, password authentication, DHCP/reconnect and
 firmware compatibility must be tested with the intended adapter before calling
 Wi-Fi ready out of the box on a device. No host radio or network configuration
 was changed.
+
+## T76 — Full showcase and publication refresh (2026-10-19)
+
+Integrated the tested phone branch and the existing installer/update development
+history with main at source checkpoint 8dc694c, preserving contributor commits.
+The combined `./scripts/check.sh` passed 198 Python tests, 63 Qt Quick checks and
+four website tests, plus available syntax/API checks. Fish and ShellCheck were
+unavailable; the existing QML lint warnings remain. GitHub Ubuntu and Arch source
+checks passed for that checkpoint.
+
+Deployed the exact combined shell/session sources into the development guest.
+Refreshed every image in the 21-image website pack: automatic Phone at 390x844,
+Tablet at 800x1280 and Desktop at 1280x800, all at scale 1. Real app previews show
+Calculator, Files and Foot. Communications captures use the existing synthetic
+contact and no outgoing calls/SMS. Audio captures show the actual USB/HDA outputs.
+Returned through greetd/PAM at 390x844, captured wrong-PIN rejection, authenticated
+home and return to greeter. The authenticated session had no configerrors.
+Per-image source checkpoints and SHA-256 digests are in the capture manifest.
+
+The live picker uses a fresh diskless, non-Secure-Boot UEFI/KVM boot of the
+existing Alpha 15 mirror development ISO (source 1a46da4), not the published
+Alpha 4 download. Its SHA-256 is recorded in the manifest. The initial 90-second
+probe reached a black compositor before the shell was ready; a longer boot was
+required. Fixed the boot capture helper to click the desktop taskbar's Start
+button, since the previous centered touch-dock coordinate left the picker shut.
+No ISO was built on the host. The published release remains Alpha 4.
+
+The website labels the current phone dimensions and immediate Recents dismissal,
+and distinguishes development installer/update tooling from the tester release.
+Browser UI verification was unavailable because this session exposes no browser;
+website behavior is covered by the existing Node tests and asset/ZIP checks.

diff --git a/docs/pr-triage.md b/docs/pr-triage.md
@@ -11,7 +11,7 @@ status are snapshots, so refresh them before the next integration.
 | 2 | #44 Desktop taskbar polish | Integrated into main: task overflow, Start menu and consistent indicators. Preserved its commits and tests. |
 | 3 | #45 Icon-only Alt+Tab | Integrated after #44 through #52; the original stacked PR was closed after verifying its head is an ancestor of main. Kept compact desktop spacing and the separate touch Recents switcher. |
 | 4 | #48 Shared navigation geometry | Integrated after #45. Resolved shell geometry against current desktop spacing; retained both testing records. Added explicit non-stretching dock/taskbar rows. |
-| 5 | #46 Window controls and live installer | Separate review. Its scope now includes disk installation and boot branding. PR #53 merged T74 fail-closed live-medium/mounted-target/kernel checks into its feature branch, with mocked destructive operations; installed-disk and fresh-image acceptance remain separate. Reconcile with the integrated main before merging. |
+| 5 | #46 Window controls and live installer | Separate review. Its scope now includes disk installation and boot branding. PR #53 merged T74 fail-closed live-medium/mounted-target/kernel checks into its feature branch, with mocked destructive operations; installed-disk and fresh-image acceptance remain separate. PR #55 reconciles its history with current main and the tested phone work; installed-disk acceptance remains pending. |
 | 6 | #38 ARM development VM | Conflicts with main. Reconcile VM scripts in isolation, validate downloads and source sharing, then boot the ARM guest. An emulated guest is not phone hardware acceptance. |
 | 7 | #23 Wi-Fi association | Conflicts with main. Rework against current controls and NetworkManager setup; accept scanner ownership, credentials/cancellation, device/service replacement and keyboard entry before integration. |
 | 8 | #9 System themes | Broad foundation for #47/#50 and part of the portal stack. Current CI fails: Ubuntu lacks QtQuick.Effects for MediaPanel/PinScreen, and Arch ShellCheck rejects terminal-escape printf strings (SC1003). Fix the declared Qt dependency and shell formatting before reviewing runtime theme behavior. |

diff --git a/AGENT-README.md b/AGENT-README.md
@@ -170,8 +170,8 @@ after the last assigned ID; preserve existing IDs when reorganizing sections.
 | --- | --- | --- | --- | --- |
 | T73 | Done | Codex | review/audit-2026-10-19 | PR #52 merged; small PRs integrated, shell/site defects fixed, CI and live Pages verified |
 | T74 | Done | Codex | PR #53 | Installer preflight safeguards merged into the feature branch; full installer integration and installed-disk acceptance remain open |
-| T76 | In progress | Codex | publish/phone-refresh-2026-10-19 | Refresh all showcase captures and publish current source/site with provenance and verified deployment |
-| T75 | Review | Codex | feat/phone-recents-stack | Real phone previews and touch/close/empty-state checks passed at 390×844, 400×800 and 360×800; audio signal/UI checks passed, physical Wi-Fi untested |
+| T76 | Review | Codex | PR #55 | Refresh all showcase captures and publish current source/site with provenance and verified deployment |
+| T75 | Done | Codex | PR #55 | Real phone previews and touch/close/empty-state checks passed at 390×844, 400×800 and 360×800; audio signal/UI checks passed, physical Wi-Fi untested |
 | T05 | In progress | Codex | feat/vm-touch-refinement | VM touch drawer, scrolling, output switching and compact/wide layouts tested |
 | T25 | In progress | Codex | feat/vm-touch-refinement | Virgl verified; reduced absent-service polling; 30s CPU samples recorded |
 | T09 | Done | Codex | PR #18 | Guarded battery/power-profile integration; unavailable VM state verified |

diff --git a/website/README.md b/website/README.md
@@ -33,8 +33,10 @@ The website's model tabs support arrow keys, Home/End, visible keyboard focus,
 image enlargement, original downloads, and a screenshot ZIP. Reduced motion is
 respected. There are no accounts, analytics, paid services, or remote fonts.
 
-The current showcase includes twenty-one real VM screenshots, the device roadmap,
-new-session PIN login evidence, and a share panel. Open Graph/Twitter metadata
+The 2026-10-19 showcase includes twenty-one refreshed real VM screenshots, the device roadmap,
+390x844 phone captures, new-session PIN login evidence, and a share panel.
+The live-launcher capture identifies its development ISO separately from the
+published Alpha 4 download. Open Graph/Twitter metadata
 uses an actual desktop capture. Sharing uses the system share sheet when
 available, otherwise copies the public URL, with a visible fallback address.
 Branding downloads are hosted on the separate `brand-kit-20261017` asset release;

diff --git a/docs/phone-login.md b/docs/phone-login.md
@@ -42,7 +42,7 @@ The package creates /var/lib/tessarchy-greeter with private greeter ownership
 and uses it as HOME, including on systems where greetd's account home is /.
 For a fixed kiosk display, set TESSARCHY_GREETER_OUTPUT and TESSARCHY_GREETER_MODE
 in the greetd command environment. Their default is the preferred native mode;
-only the development VM explicitly selects Virtual-1 at 400x800@60.
+only the development VM explicitly selects Virtual-1 at 390x844@60.
 
 The existing ISO continues to use its locked live account and autologin. This
 experimental greeter is not enabled in ISO staging: enabling it without a
